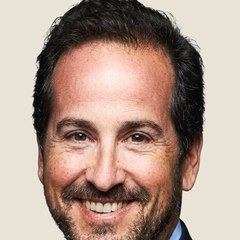
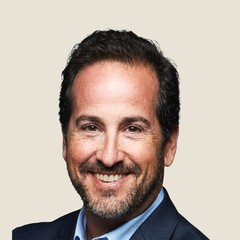
Use new G5d cover on Reader Toolkit pages; reframe headshot
Claude-Session: https://claude.ai/code/session_016dEjAwsrM9wzgHeWcVjiVF

diff --git a/push-button-management/toolkit/index.html b/push-button-management/toolkit/index.html
@@ -48,7 +48,7 @@ h1{margin-top:1rem;font-size:clamp(2.4rem,5.5vw,3.6rem);line-height:1.03;letter-
    <p class="addr">Or write to <b>feedback@pushbuttonmanagement.com</b> with &ldquo;Reader Toolkit&rdquo; in the subject.</p>
   </div>
  </div>
- <div class="cover-wrap"><img class="cover" src="../pbm-cover.jpg" width="1200" height="1800" alt="Push Button Management book cover"></div>
+ <div class="cover-wrap"><img class="cover" src="../pbm-cover-front.jpg" width="1200" height="1800" alt="Push Button Management book cover"></div>
 </div></main>
 </body>
 </html>
